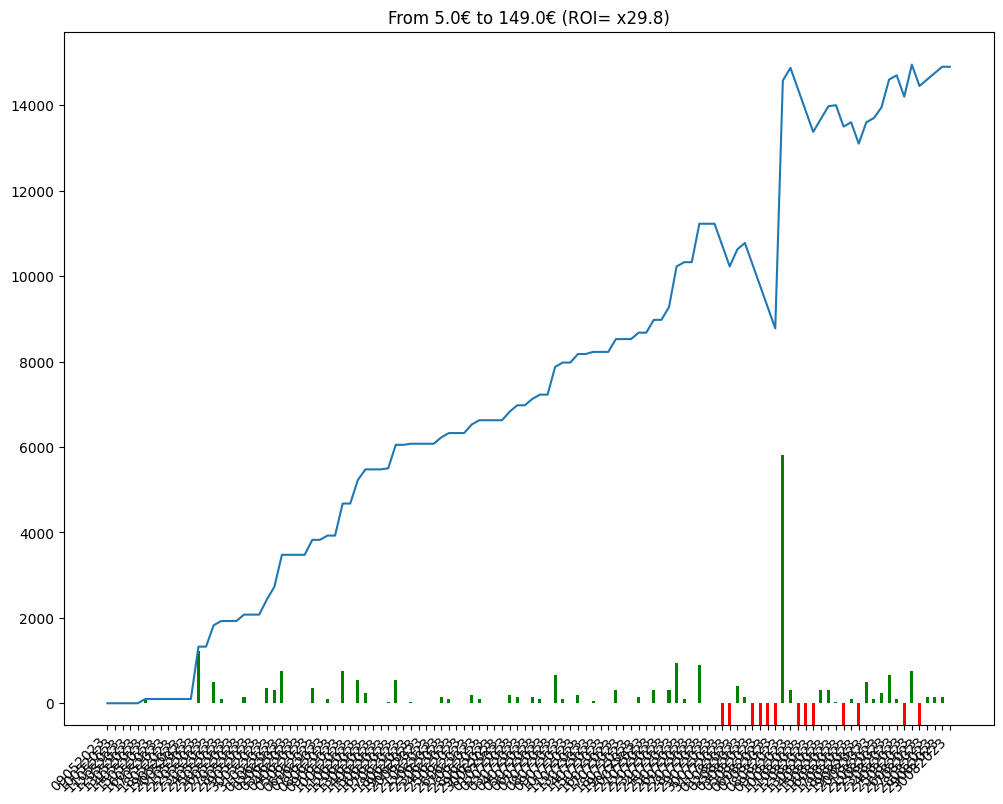
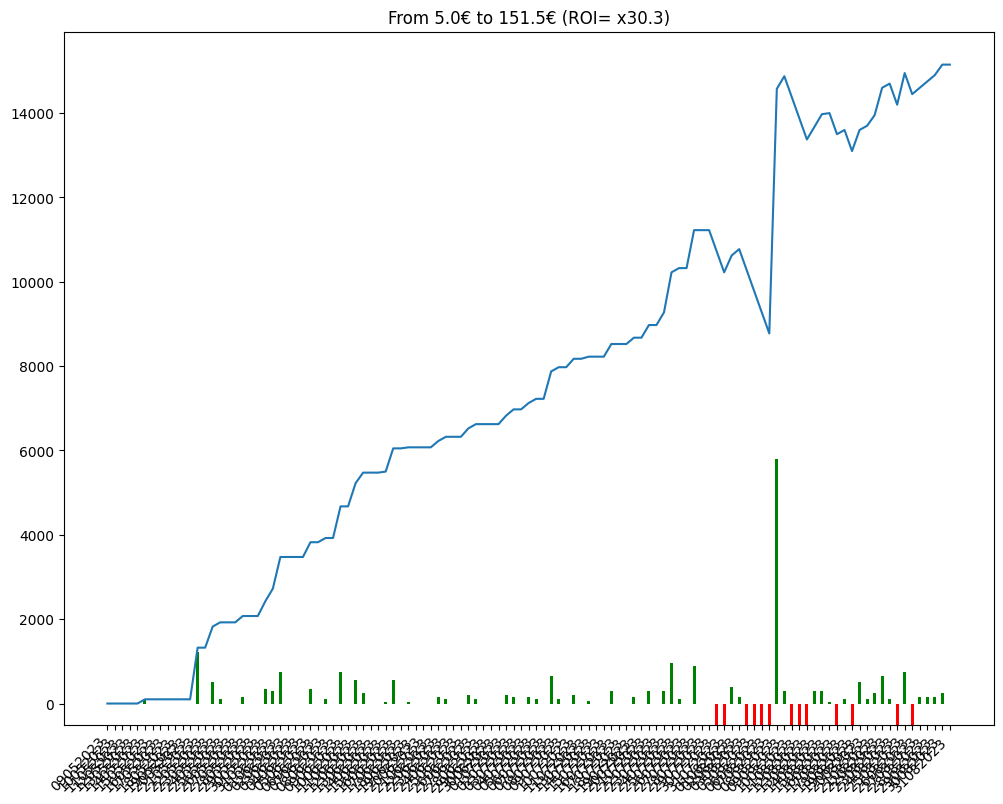
comment from python script

diff --git a/bethistory.html b/bethistory.html
@@ -86,7 +86,8 @@
             En observant la courbe 🤔, on peut avoir une idée visuelle de l'évolution des gains et ainsi évaluer le model utilisé 🧑🏫.
         </p>
         
-        <img src = "/candle.png" alt="candle chart"/><table><tr><td>Chevaux joués</td><td>Gains</td><td>URL Circuits</td></tr><tr><td>3 - WOODSTOCK CITY</td><td>0</td><td><a href=https://www.pmu.fr/turf/30082023/r1/c5 target="_blank">https://www.pmu.fr/turf/30082023/r1/c5</a></td></tr>
+        <img src = "/candle.png" alt="candle chart"/><table><tr><td>Chevaux joués</td><td>Gains</td><td>URL Circuits</td></tr><tr><td>2 - SILHAM</td><td>0</td><td><a href=https://www.pmu.fr/turf/31082023/r1/c2 target="_blank">https://www.pmu.fr/turf/31082023/r1/c2</a></td></tr>
+<tr><td>3 - WOODSTOCK CITY</td><td>+250</td><td><a href=https://www.pmu.fr/turf/30082023/r1/c5 target="_blank">https://www.pmu.fr/turf/30082023/r1/c5</a></td></tr>
 <tr><td>2 - MARZOUK</td><td>+150</td><td><a href=https://www.pmu.fr/turf/29082023/r1/c4 target="_blank">https://www.pmu.fr/turf/29082023/r1/c4</a></td></tr>
 <tr><td>2 - L'ORAGE AU PICNIC</td><td>+150</td><td><a href=https://www.pmu.fr/turf/28082023/r2/c1 target="_blank">https://www.pmu.fr/turf/28082023/r2/c1</a></td></tr>
 <tr><td>2 - THE REVENANT</td><td>+150</td><td><a href=https://www.pmu.fr/turf/27082023/r1/c4 target="_blank">https://www.pmu.fr/turf/27082023/r1/c4</a></td></tr>
